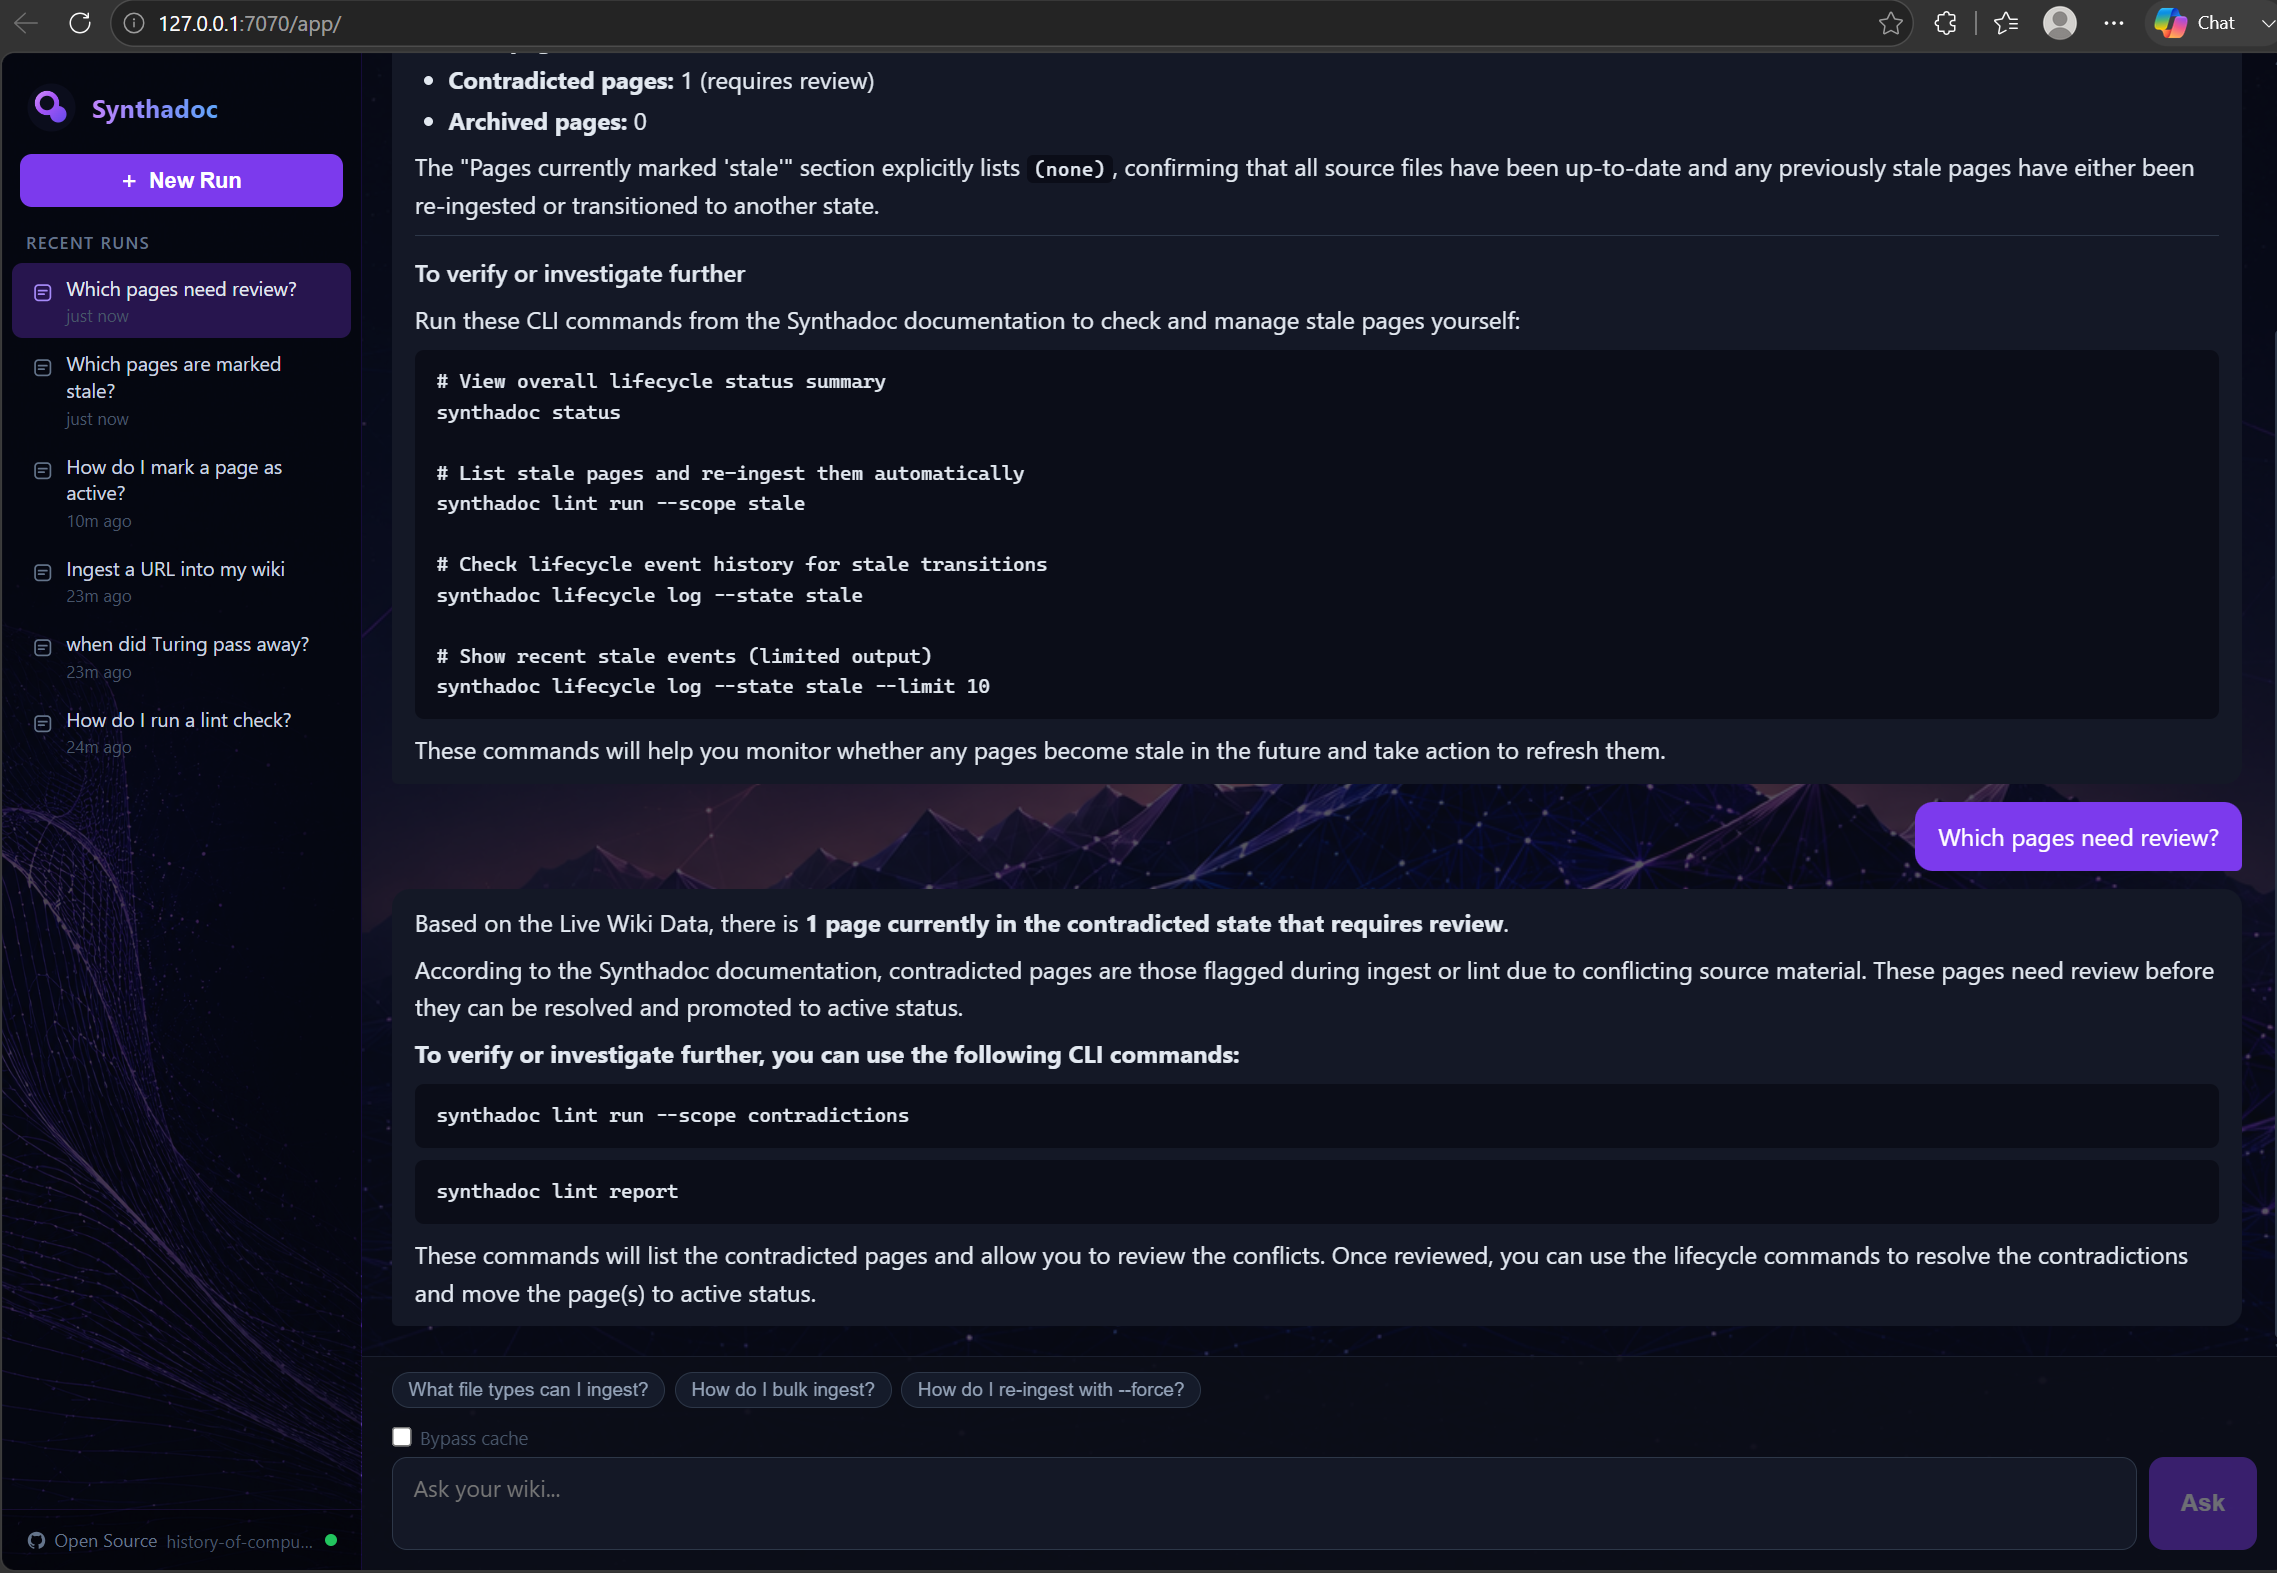
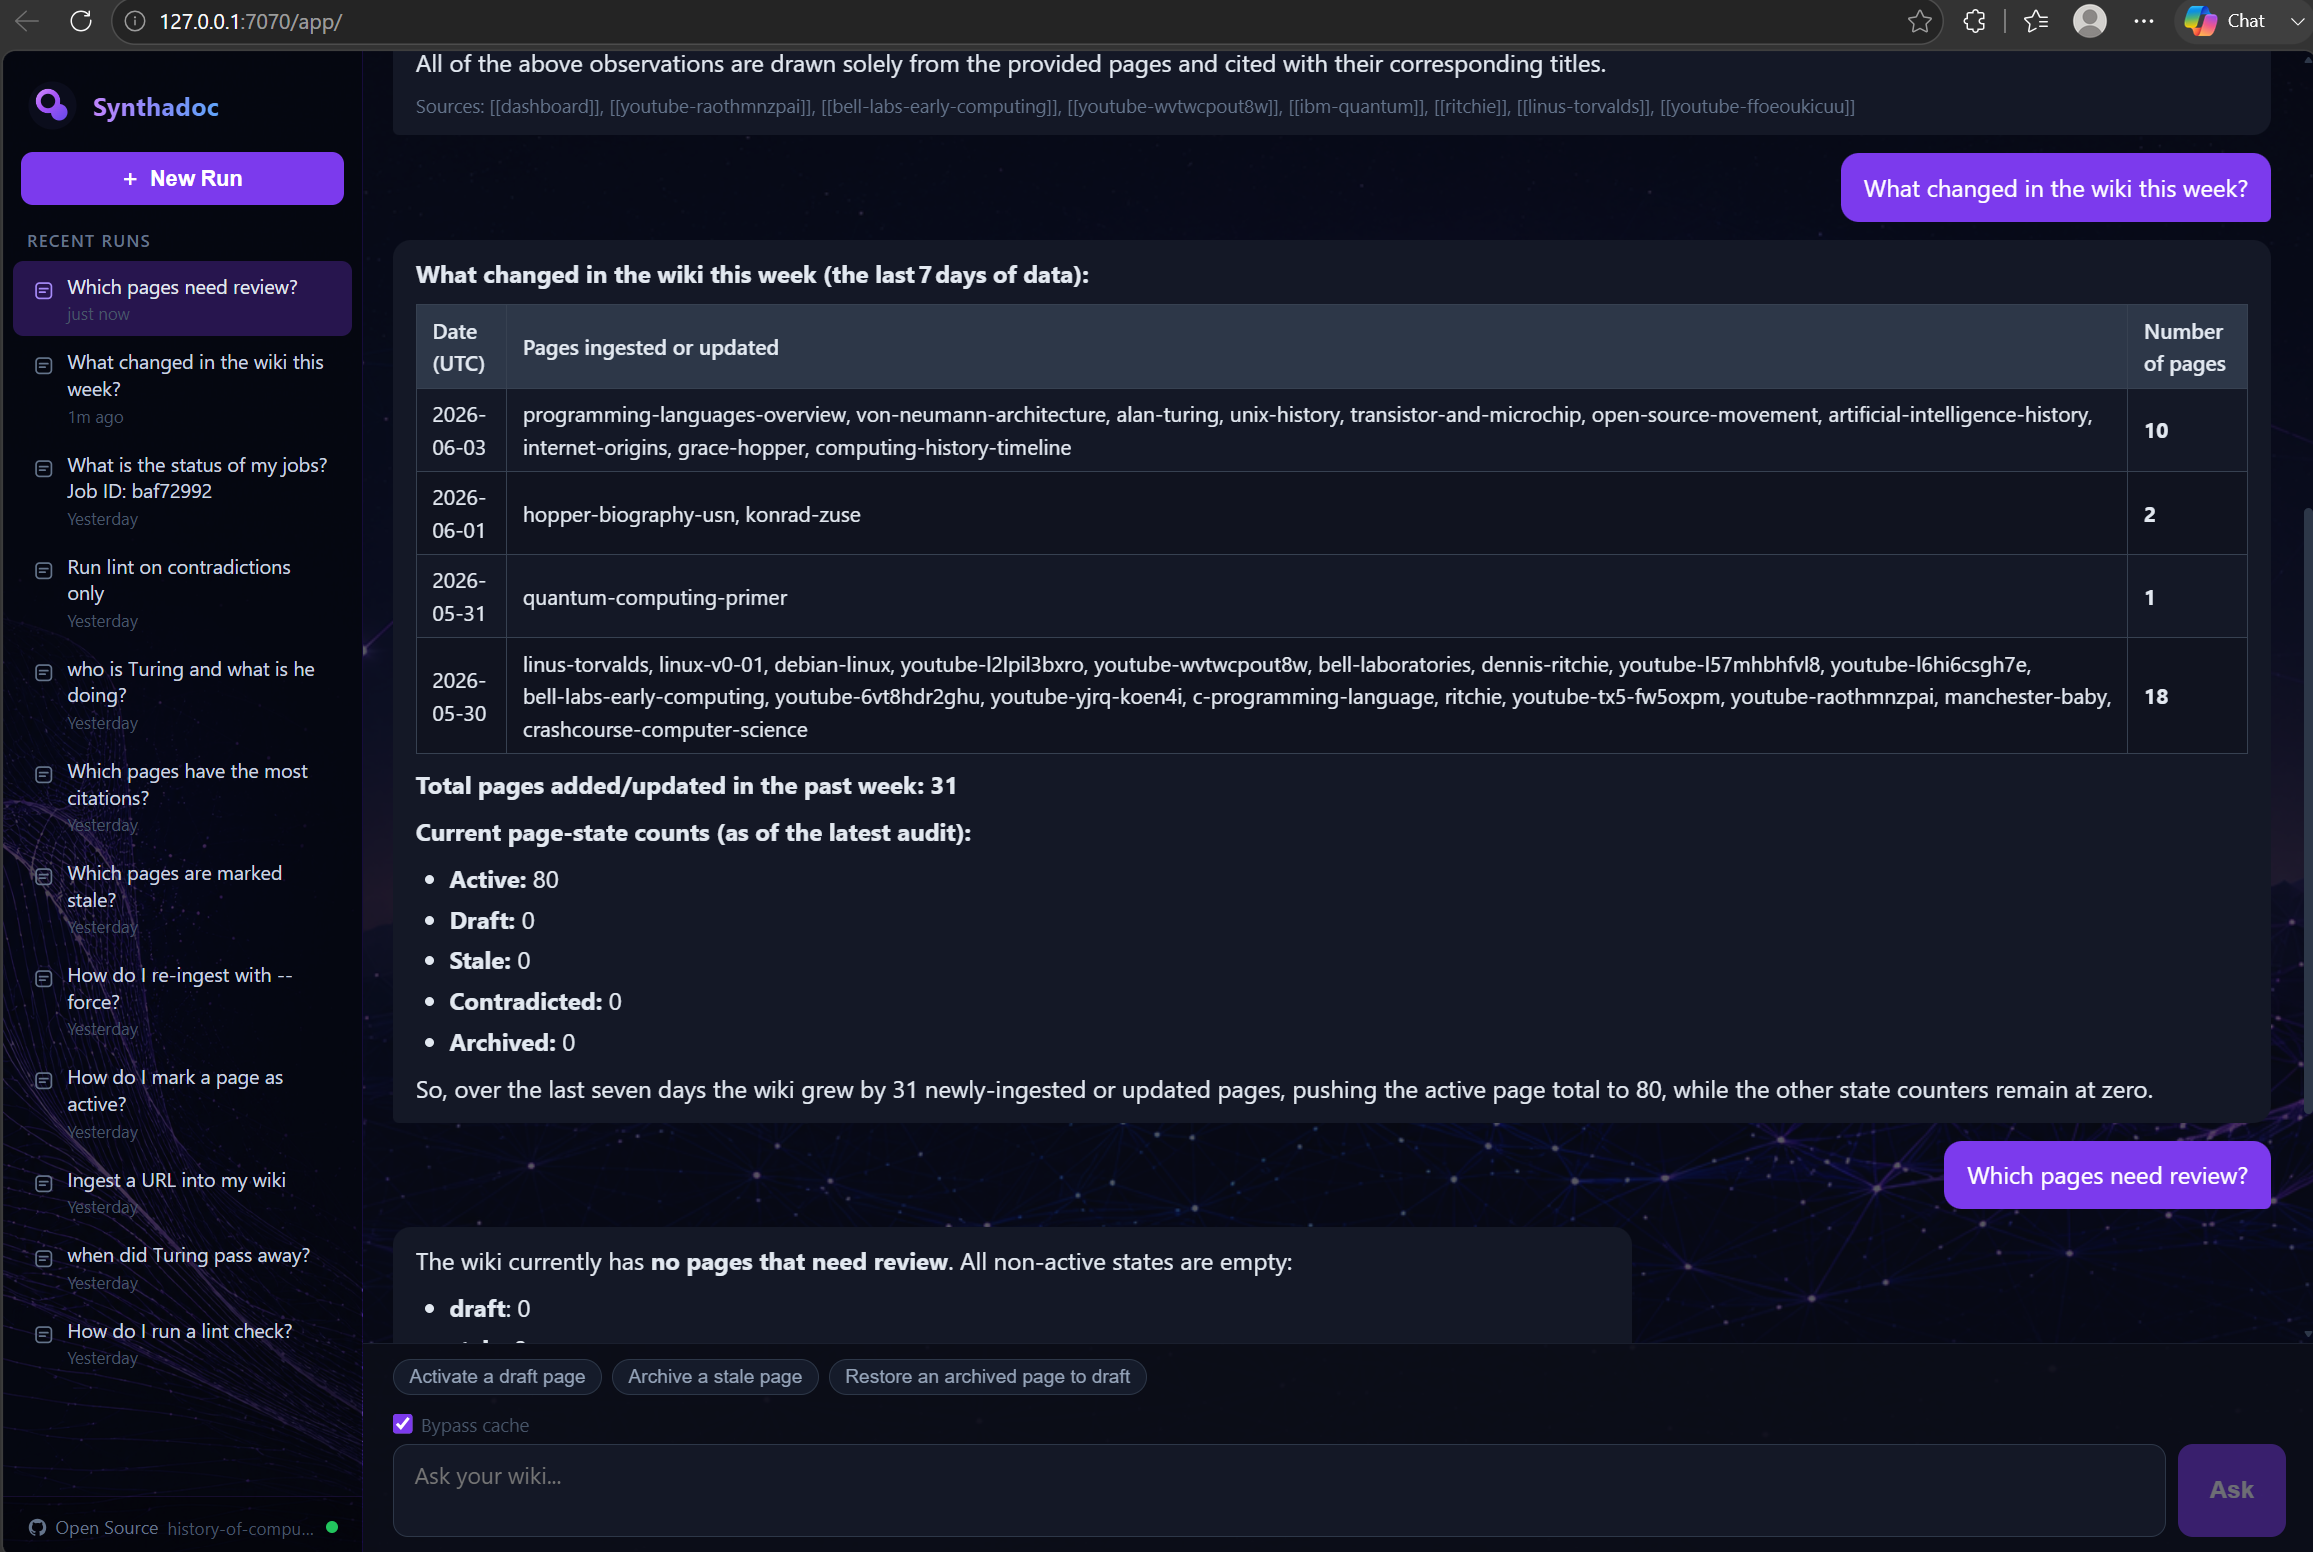
[v0.7.0] release prep (#133)
* chore: bump version to v0.7.0 and update docs

- Version bump: VERSION, obsidian manifests, README badge/logo, quick-start header, design.md
- README: add local Web UI note in Creating Your Own Wiki section
- README: clarify Web Chat UI is local-only, not network-accessible
- Quick-start Step 22: correct mode badge description (set at session open, not mid-session)
- Quick-start Step 22: remove redundant Stopping section
- Quick-start Step 23: fix --no-cache description (CLI only; web UI uses cache clear)
- design.md: add Action Agent and expanded hints to v0.7.0 release index
- design.md: fix session/localStorage accuracy in Web Chat section
- badges.json: update cli_commands from 49 to 63 (web + schedule history + others added in v0.7.0)
- bump_version.py: also patch design.md version on future bumps

* chore: sync obsidian plugin package-lock.json to v0.7.0

* update synthadoc-serve.png

* test(action_agent): add coverage for wiki_status, schedule_history, and detection patterns

Add 13 tests for methods introduced in v0.7.0: _do_wiki_status (with and
without audit.db), _do_schedule_history (empty and with runs), orphan/
contradiction/adversarial/lint-report/wiki-status detect() patterns, and
lint-op normalisation in schedule_add.  Pushes total coverage 89.54% →
90.11%, clearing the ≥90% CI gate.

Also update coverage badge to 90% and include the updated v0.7.0
architecture diagram PNG.

diff --git a/tests/agents/test_action_agent.py b/tests/agents/test_action_agent.py
@@ -207,6 +207,122 @@ async def test_none_action_returns_none(tmp_path):
     assert result is None
 
 
+# ── schedule_history dispatch ────────────────────────────────────────────────
+
[email redacted]
+async def test_schedule_history_no_audit_db(tmp_path):
+    """Returns graceful message when audit.db doesn't exist yet."""
+    extraction = '{"action": "schedule_history", "params": {}}'
+    agent = _make_agent(tmp_path, extraction)
+    result = await agent.run("show scheduler history")
+    assert result is not None
+    assert result.success is True
+    assert "no scheduled run history" in result.message.lower()
+
+
[email redacted]
+async def test_schedule_history_with_runs(tmp_path):
+    extraction = '{"action": "schedule_history", "params": {}}'
+    agent = _make_agent(tmp_path, extraction)
+    audit_path = tmp_path / ".synthadoc" / "audit.db"
+    audit_path.parent.mkdir(parents=True, exist_ok=True)
+    audit_path.touch()
+    mock_runs = [
+        {"run_id": "r1", "op": "lint run", "started_at": "2026-06-04T09:00:00",
+         "duration_s": 12.5, "status": "success", "error": None},
+        {"run_id": "r2", "op": "ingest", "started_at": "2026-06-04T10:00:00",
+         "duration_s": None, "status": "failed", "error": "timeout"},
+    ]
+    with patch("synthadoc.storage.log.AuditDB") as MockAudit:
+        inst = AsyncMock()
+        inst.init = AsyncMock()
+        inst.list_scheduled_runs = AsyncMock(return_value=mock_runs)
+        MockAudit.return_value = inst
+        result = await agent.run("show scheduler history")
+    assert result is not None
+    assert result.success is True
+    assert "r1" in result.message
+    assert "lint run" in result.message
+    assert "❌" in result.message  # failed run shows error icon
+
+
+# ── wiki_status dispatch ──────────────────────────────────────────────────────
+
[email redacted]
+async def test_wiki_status_no_audit_db(tmp_path):
+    """Falls back to page count when audit.db absent."""
+    extraction = '{"action": "wiki_status", "params": {}}'
+    agent = _make_agent(tmp_path, extraction)
+    agent._orch._store.list_pages.return_value = ["page-a", "page-b"]
+    result = await agent.run("show wiki status")
+    assert result is not None
+    assert result.success is True
+    assert "2 pages" in result.message
+
+
[email redacted]
+async def test_wiki_status_with_audit_db(tmp_path):
+    extraction = '{"action": "wiki_status", "params": {}}'
+    agent = _make_agent(tmp_path, extraction)
+    audit_path = tmp_path / ".synthadoc" / "audit.db"
+    audit_path.parent.mkdir(parents=True, exist_ok=True)
+    audit_path.touch()
+    counts = {"draft": 3, "active": 42, "stale": 5, "contradicted": 2, "archived": 1}
+    with patch("synthadoc.storage.log.AuditDB") as MockAudit:
+        inst = AsyncMock()
+        inst.init = AsyncMock()
+        inst.get_lifecycle_summary = AsyncMock(return_value=counts)
+        MockAudit.return_value = inst
+        result = await agent.run("show wiki status")
+    assert result is not None
+    assert result.success is True
+    assert "active" in result.message
+    assert "42" in result.message
+    assert "53 pages" in result.message
+
+
+# ── detect: orphan / contradiction / lint-report ──────────────────────────────
+
+def test_detect_orphan_pages_query(tmp_path):
+    agent = _make_agent(tmp_path, "{}")
+    assert agent.detect("What pages in this wiki domain are orphan pages?") is True
+
+def test_detect_show_contradictions(tmp_path):
+    agent = _make_agent(tmp_path, "{}")
+    assert agent.detect("list contradicted pages") is True
+
+def test_detect_adversarial_pages(tmp_path):
+    agent = _make_agent(tmp_path, "{}")
+    assert agent.detect("are there any adversarial pages?") is True
+
+def test_detect_lint_report(tmp_path):
+    agent = _make_agent(tmp_path, "{}")
+    assert agent.detect("show lint report") is True
+
+def test_detect_wiki_status(tmp_path):
+    agent = _make_agent(tmp_path, "{}")
+    assert agent.detect("show synthadoc status") is True
+
+def test_detect_what_contradictions(tmp_path):
+    agent = _make_agent(tmp_path, "{}")
+    assert agent.detect("what contradictions exist?") is True
+
+
+# ── schedule_add lint normalisation ──────────────────────────────────────────
+
[email redacted]
+async def test_schedule_add_normalises_lint_op(tmp_path):
+    """'lint' op is normalised to 'lint run' before saving."""
+    extraction = ('{"action": "schedule_add", "params": {'
+                  '"op": "lint", "cron": "0 21 * * *",'
+                  '"schedule_description": "every night at 9 PM"}}')
+    agent = _make_agent(tmp_path, extraction)
+    result = await agent.run("Schedule lint run every night at 9 PM")
+    assert result is not None
+    assert result.success is True
+    assert "lint run" in result.message
+
+
 # ── format helper ─────────────────────────────────────────────────────────────
 
 def test_format_schedule_list_empty():

diff --git a/scripts/bump_version.py b/scripts/bump_version.py
@@ -94,8 +94,15 @@ def main() -> None:
         f"**Version: v{new_version} (Community Edition)**",
     )
 
+    # 5. Design document version header
+    _patch_text(
+        ROOT / "docs" / "design.md",
+        f"**Version:** {old_version}  ",
+        f"**Version:** {new_version}  ",
+    )
+
     print("Done. Remember to:")
-    print("  git add VERSION obsidian-plugin/manifest.json obsidian-plugin/package.json README.md docs/user-quick-start-guide.md")
+    print("  git add VERSION obsidian-plugin/manifest.json obsidian-plugin/package.json README.md docs/user-quick-start-guide.md docs/design.md")
     print(f"  git commit -m 'chore: bump version to {new_version}'")
     print("  git tag v" + new_version)
 

diff --git a/docs/user-quick-start-guide.md b/docs/user-quick-start-guide.md
@@ -1,6 +1,6 @@
 # Synthadoc User Quick-Start Guide
 
-**Version: v0.6.0 (Community Edition)**
+**Version: v0.7.0 (Community Edition)**
 
 This guide walks you through the **History of Computing** demo wiki — a fully wired
 Synthadoc environment with 13 pre-built pages and six raw source files that cover every
@@ -1739,7 +1739,7 @@ The UI detects the state of your wiki and your session history, then adapts:
 | **Health Check** | ≥5 pages, returning user, ≥1 stale page in the wiki | Lifecycle review — suggests running lint or inspecting stale pages |
 | **Power User** | ≥5 pages, returning user, no stale pages | Context-sensitive follow-ups based on your last answer |
 
-The mode badge appears in the top-right corner of the chat interface. It reflects the wiki's current state — after you run lint and promote pages, a **Health Check** session will become **Power User** on the next session open.
+The mode badge appears in the top-right corner of the chat interface. It reflects the wiki's current state at the moment the session was created — the mode is determined when you open the browser tab, not updated mid-session. To see an updated mode after running lint and promoting pages, open a new browser tab.
 
 ### Asking questions
 
@@ -1754,10 +1754,6 @@ Below each answer:
 ### Multi-turn conversation
 
 Each question in a session builds on the previous ones. The UI maintains conversation context so follow-up questions like "What came before that?" resolve correctly against the previous answer.
-
-### Stopping
-
-Close the browser tab when done. The engine keeps running — use `synthadoc serve` background mode or stop the server manually when finished.
 
 ---
 
@@ -1787,7 +1783,7 @@ Use `--no-cache` when:
 - You are debugging a query or testing a new LLM provider
 - You suspect the cache entry is stale for any reason
 
-The `--no-cache` flag works on both `synthadoc query` and with the `synthadoc web` UI (pass it when starting the server, or use the flag on an individual `query` CLI call).
+The `--no-cache` flag is available on `synthadoc query`. The web chat UI always uses the cache automatically; use `synthadoc cache clear` to force a full refresh for all subsequent queries.
 
 ### Cache management
 

diff --git a/docs/design.md b/docs/design.md
@@ -1,6 +1,6 @@
 # Synthadoc — Design Document
 
-**Version:** 0.6.0  
+**Version:** 0.7.0  
 **Audience:** Product users who want to understand how the system works; developers adding features, skills, and plugins.
 
 **Document owners:** Paul Chen, William Johnason
@@ -2320,7 +2320,7 @@ Hint chips are rendered below each answer and in the empty-state panel before th
 
 The UI sends the full conversation history with each request as a `context` array (array of `{role, content}` objects). `QueryAgent` prepends this history to the system prompt so follow-up questions resolve correctly.
 
-History is stored in the browser's session state (JavaScript array); it is not persisted server-side. Closing the browser tab or refreshing the page starts a new conversation turn sequence (but `session_id` is preserved via `localStorage`).
+History is stored in the browser's React state (JavaScript array); it is not persisted server-side. Closing the browser tab or refreshing the page starts a new session — `POST /sessions` is called on every page load and a new `session_id` is assigned. Query history (the list of past questions shown in the sidebar) is persisted in `localStorage` keyed by origin, so it is shared across tabs in the same browser but isolated between different browsers.
 
 ### CLI command
 
@@ -2434,4 +2434,6 @@ Opens the default browser to `http://localhost:{port}/app`. The server must alre
 - **Web chat UI** — React SPA served at `GET /app` by the existing HTTP server (no extra port or process). Features: session-aware mode detection (`NEW_WIKI` / `EXPLORER` / `HEALTH_CHECK` / `POWER_USER`) based on wiki page count, prior session history, and stale-page presence; streaming answers via SSE; citation links; knowledge-gap callouts; contextual hint chips with windowed pool rotation; and multi-turn conversation history. Server maintains a lightweight in-memory session store (session_id, mode, hint cursor, last_hints).
 - **Session management and hint engine** — hint chip sets are derived from wiki index headings (new mode), recent citation graph (explorer mode), and uncovered BM25 top pages (power-user mode). Mode badge displayed in the UI header.
 - **Obsidian plugin streaming** — the Query command streams the answer into the modal as tokens arrive, matching the CLI and web UI streaming experience. No change to the Obsidian command count.
-- **`synthadoc web` CLI command** — opens the default browser to `http://localhost:{port}/app`; thin wrapper around OS open/start/xdg-open; server must already be running.
+- **`synthadoc web` CLI command** — opens the default browser to `http://localhost:{port}/app`; thin wrapper around OS open/start/xdg-open; server must already be running. The web UI is local-only; network access and authentication are not available in the Community Edition.
+- **Action Agent** — regex pre-filter + LLM extraction layer that detects action-intent queries ("run lint", "schedule ingest every night", "what pages are orphans?") and dispatches them to live Synthadoc operations without going through the query pipeline. Supports: `lint`, `lint_report`, `wiki_status`, `ingest`, `scaffold`, `schedule_add`, `schedule_list`, `schedule_history`, `lifecycle_activate`, `lifecycle_archive`, `lifecycle_restore`. Returns structured `ActionResult` rendered directly in the web UI and CLI.
+- **Expanded hint coverage** — built-in `hints.json` extended with lifecycle action hints ("Activate a draft page", "Archive a stale page", "Restore an archived page to draft"), orphan/contradiction/adversarial patterns, and "Show wiki status" in EXPLORER and HEALTH_CHECK modes.